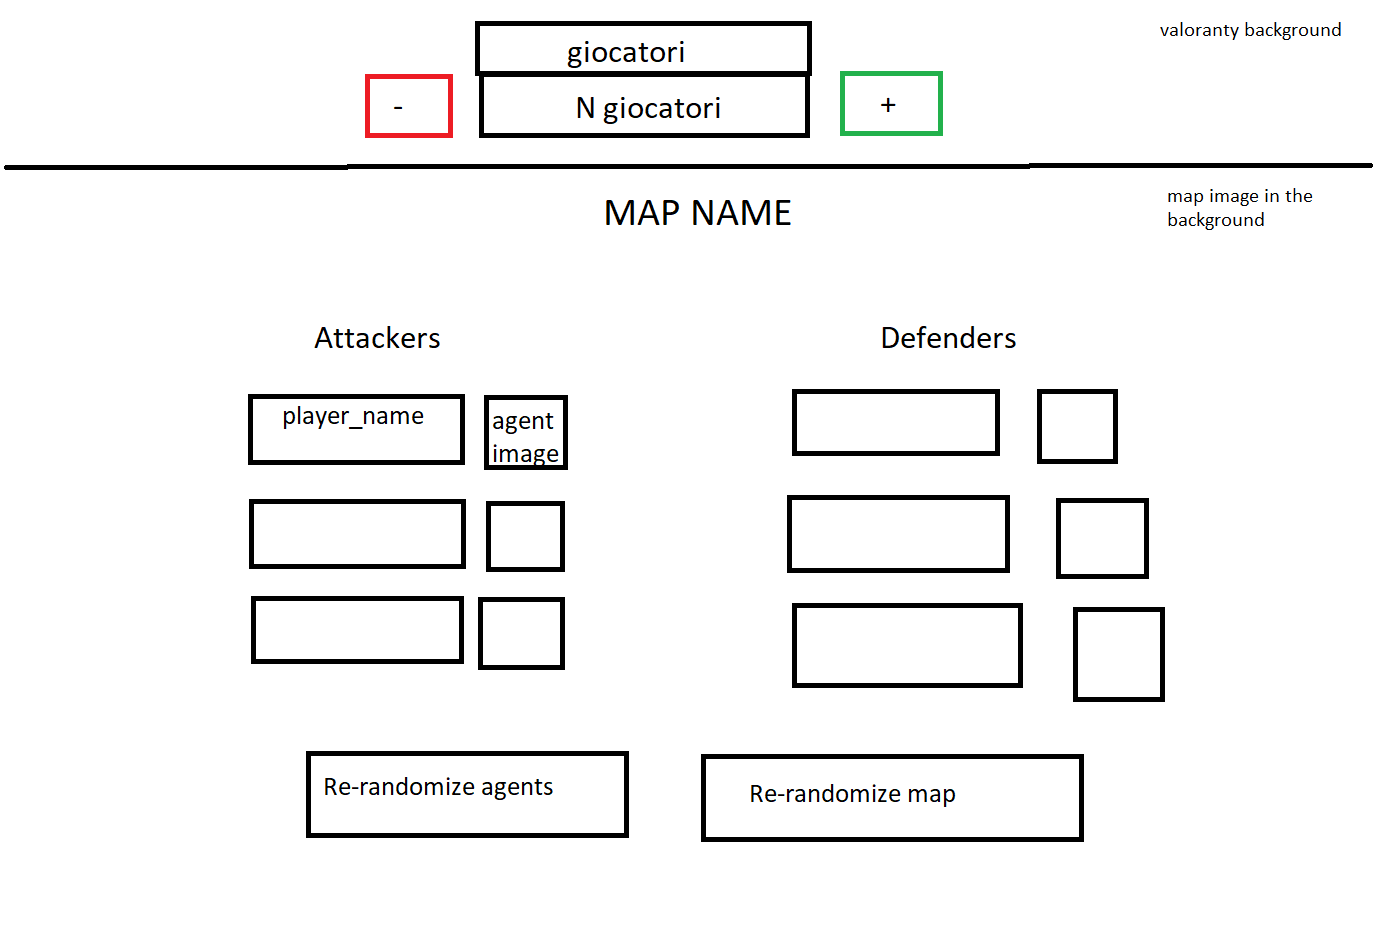
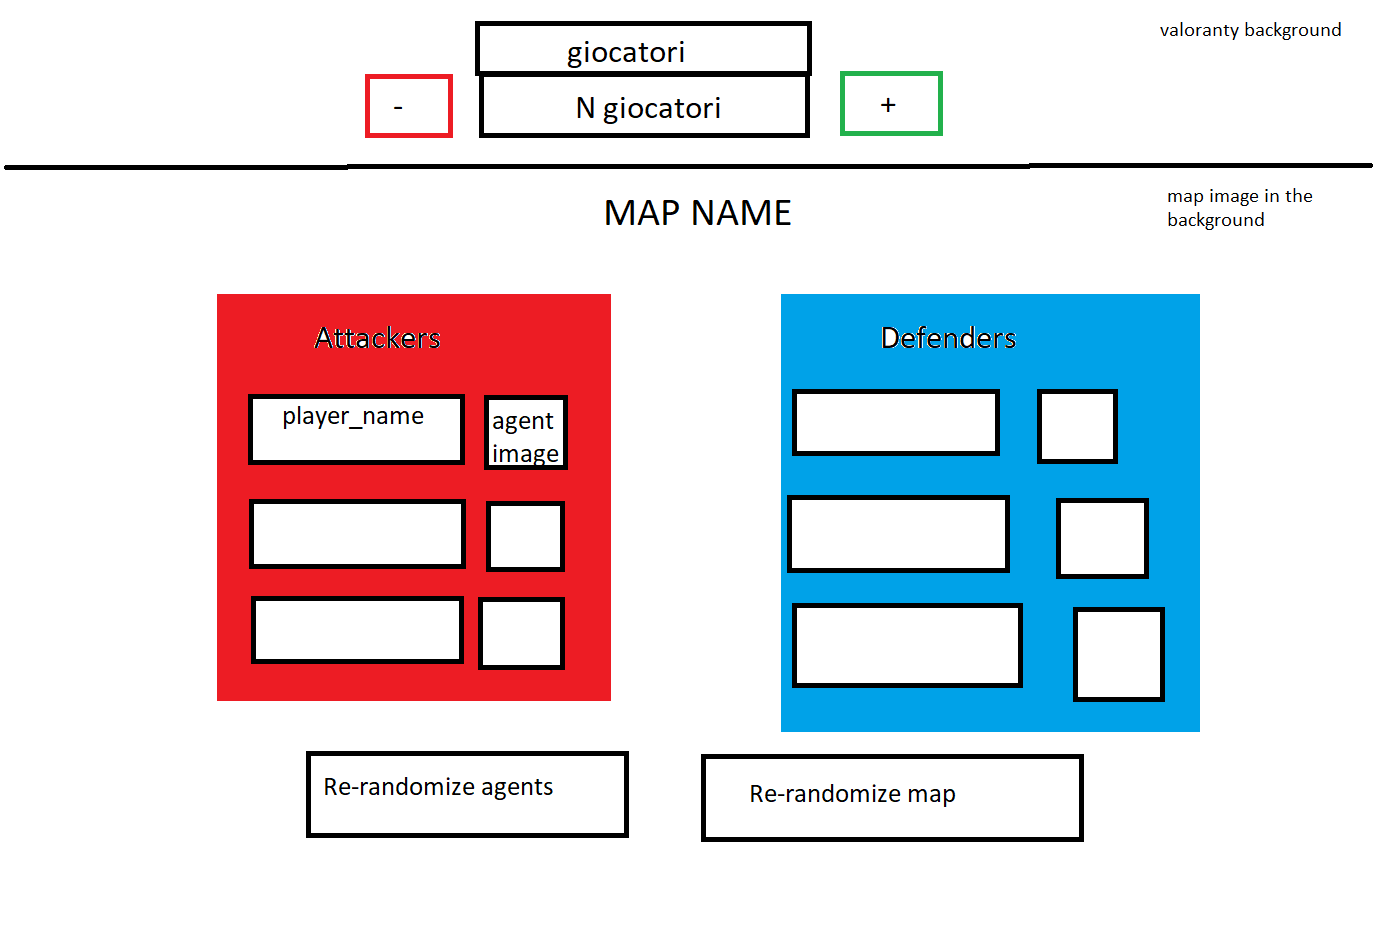
header fixed and agents menù defined

Changed region(s): [[0.5625, 0.3118, 0.875, 0.8108], [0.1562, 0.3118, 0.4688, 0.7796]]

diff --git a/Randomizer.html b/Randomizer.html
@@ -1,20 +1,22 @@
-<!DOCTYPE html>
 <head>
-    <!--Bootstrap Library--
+    <!--Bootstrap Library-->
     <link rel="stylesheet" href="https://maxcdn.bootstrapcdn.com/bootstrap/3.4.1/css/bootstrap.min.css">
     <script src="https://ajax.googleapis.com/ajax/libs/jquery/3.6.0/jquery.min.js"></script>
     <script src="https://maxcdn.bootstrapcdn.com/bootstrap/3.4.1/js/bootstrap.min.js"></script>
-    !--Files and Title-->
+    <!--Files and Title-->
     <script src="Behavior.js"></script>
     <link rel="stylesheet" href="Style.css">
     <title>Valorant Randomizer</title>
 </head>
 <body onload="start()">
+    <!--Header-->
     <div>
-        <div id="withe_container">
-            <div id="logo"><img src="./images/logo.png"></div>
-            <div id="title"><h1>Valorant Randomizer</h1></div>
+        <div class="withe_container">
+            <div id="logo"><a href="https://playvalorant.com/en-us/?utm_source=riotbar&utm_medium=productcard%2Bwww.riotgames.com&utm_campaign=val&utm_content=ep4"><img src="images/white_logo_resized.png"></a></div>
+            <div id="title"><p>Valorant Randomizer</p></div>
         </div>
     </div>
+    <!--Agent number selector-->
+    
 
 </body>

diff --git a/Style.css b/Style.css
@@ -4,21 +4,46 @@ body{
     background-position: top center;
 }
 
-#withe_container{
-    text-align: center;
-    background-color: white;
-    border: 3px solid black;
+.withe_container{
+    width: 35%;
+    display: table;
+    background-color: black;
     border-radius: 20px;
-    margin-left: 36%;
-    margin-right: 36%;
+    margin-top: 2%;
+    margin-bottom: 2%;
+    margin-left: 35%;
+    margin-right: 35%;
+}
+
+p{
+    font-size: 35;
+    font-family: "valorant";
+    color: white;
+    margin-top: 3%;
 }
 
 #logo{
     float: left;
-    margin-left: 5%;
-    margin-top: 5%;
+    margin: 2%;
+    margin-top: 3%;
 }
 
 #title{
-    float: center;
+    float: left;
+}
+
+.circle{
+    width: 10%;
+    height: 10%;
+    background-color: rgb(22, 216, 22);
+    border-radius: 50%;
+    /*display: inline-block;*/ /*span*/
+    float: left;
+    border: 3px solid black;
+}
+
+/*Valorant Font Declaration*/
+@font-face {
+    font-family: valorant;
+    src: url(font/Valorant\ Font.ttf);
 }
